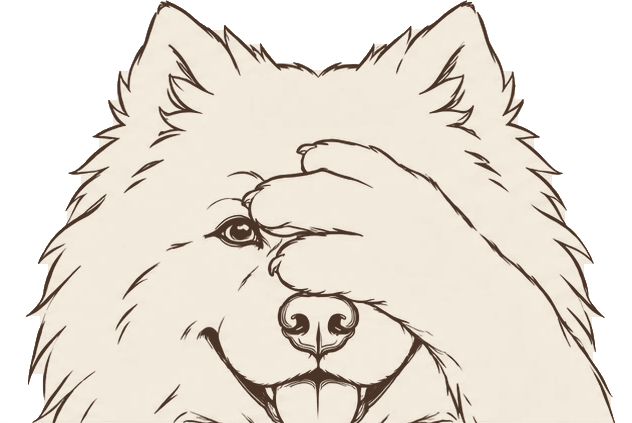
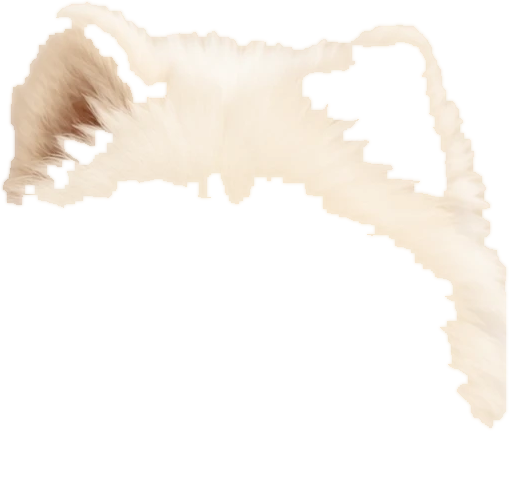
Narrow rail collapses to the mark and a round Add; progress combs end at 'First edition'; only four-digit birth years are kept

diff --git a/src/styles/astory.css b/src/styles/astory.css
@@ -174,6 +174,7 @@ ul { margin: 0; padding: 0; list-style: none; }
   display: flex; flex-direction: column; padding: var(--s-8) var(--s-5) var(--s-6);
 }
 .rail .brand { padding: 0 var(--s-3); margin-bottom: var(--s-8); }
+.rail .brand .narrow { display: none; }
 .rail .teller { display: flex; align-items: center; gap: var(--s-3); padding: var(--s-3); border-radius: var(--r-field);
   background: rgba(243,235,221,0.08); border: 1px solid rgba(243,235,221,0.14); color: inherit; text-align: left; width: 100%; cursor: pointer; }
 .rail .teller small { display: block; font-size: var(--t-caption); letter-spacing: 0.08em; text-transform: uppercase; color: var(--brass); font-weight: 700; }
@@ -379,7 +380,11 @@ ul { margin: 0; padding: 0; list-style: none; }
 @media (max-width: 1100px) {
   :root { --rail-w: 96px; --gutter: 28px; }
   .rail { padding: var(--s-6) var(--s-3); }
-  .rail .brand { display: flex; justify-content: center; --lockup-h: 30px; }
+  .rail .brand { display: flex; justify-content: center; padding: 0; }
+  .rail .brand .wide { display: none; }
+  .rail .brand .narrow { display: block; }
+  .rail .add { width: 56px; height: 56px; min-height: 0; padding: 0; margin-left: auto; margin-right: auto; border-radius: 50%; }
+  .rail .add span { display: none; }
   .rail .teller strong, .rail .teller small, .rail .teller svg, .rail nav a span, .rail .me strong, .rail .me small { display: none; }
   .rail .teller { justify-content: center; padding: var(--s-2); }
   .rail nav a { justify-content: center; padding: 0; }

diff --git a/src/components/Shell.tsx b/src/components/Shell.tsx
@@ -8,7 +8,7 @@ import { useEffect, useState, type ReactNode } from "react";
 import { NavLink, useLocation, useNavigate } from "react-router-dom";
 import { useAuth } from "../state/authContext";
 import { useAccount } from "../state/accountContext";
-import { Lockup } from "./Brand";
+import { Lockup, Mark } from "./Brand";
 import { Avatar, Button } from "./ui";
 import { ArchiveIcon, BookIcon, ChevronDown, ChevronLeft, CloseIcon, FamilyIcon, HomeIcon, MicIcon, PenIcon, PhotoIcon, PlusIcon } from "./icons";
 import { usePhotoUrl } from "../lib/photoUrls";
@@ -158,7 +158,8 @@ export default function Shell({ children, title, back }: { children: ReactNode; 
       <aside className="rail on-dark">
         <div className="brand">
           <NavLink to="/" aria-label="Home">
-            <Lockup height={40} />
+            <Lockup height={40} className="wide" />
+            <Mark height={34} className="narrow" />
           </NavLink>
         </div>
         <TellerButton onClick={() => setTeller(true)} />

diff --git a/src/pages/Book.tsx b/src/pages/Book.tsx
@@ -100,10 +100,10 @@ export default function Book() {
             <p className="bookhero-sub">{book.title === book.fullName ? book.subtitle : book.fullName}</p>
             <p className="bookhero-headline">{progress.headline}</p>
             <div className="progress" style={{ ["--pct" as string]: `${Math.max(6, pct)}%` }} role="img" aria-label={`${pct}% of the way to a first edition`}>
-              <div className="bar">{pct}%</div>
+              <div className="bar">{pct >= 20 ? `${pct}%` : ""}</div>
               <div className="mark" />
               <div className="comb" />
-              <div className="end">100%</div>
+              <div className="end">First edition</div>
             </div>
             <p className="meta bookhero-line">{bookLine(book)}</p>
             <div className="bookhero-acts">

diff --git a/src/data/stories.ts b/src/data/stories.ts
@@ -128,6 +128,12 @@ export function rowToMemory(row: Row): Memory {
   };
 }
 
+/** A birth year the archive can count with; anything else (the app lets people type freely) is left blank. */
+export function yearOnly(v: unknown): string {
+  const t = String(v ?? "").trim();
+  return /^\d{4}$/.test(t) ? t : "";
+}
+
 export function rowToStory(row: Row): Story {
   const memories = (row.memories || [])
     .slice()
@@ -145,7 +151,7 @@ export function rowToStory(row: Row): Story {
     directory: row.directory || null,
     birthDay: row.birth_day || "",
     birthMonth: row.birth_month || "",
-    birthYear: row.birth_year || "",
+    birthYear: yearOnly(row.birth_year),
     hasAccount: row.has_account || null,
     connectedEmail: row.connected_email || "",
     photo: row.photo_url || null,

diff --git a/src/components/archive/BookCard.tsx b/src/components/archive/BookCard.tsx
@@ -30,10 +30,10 @@ export default function BookCard({ story }: { story: Story }) {
           <small>{p.headline}</small>
         </p>
         <div className="progress" style={{ ["--pct" as string]: `${Math.max(6, pct)}%` }} role="img" aria-label={`${pct}% of the way to a first edition`}>
-          <div className="bar">{pct}%</div>
+          <div className="bar">{pct >= 20 ? `${pct}%` : ""}</div>
           <div className="mark" />
           <div className="comb" />
-          <div className="end">100%</div>
+          <div className="end">First edition</div>
         </div>
         <p className="meta" style={{ marginTop: 8 }}>{line}</p>
         <div className="acts">
